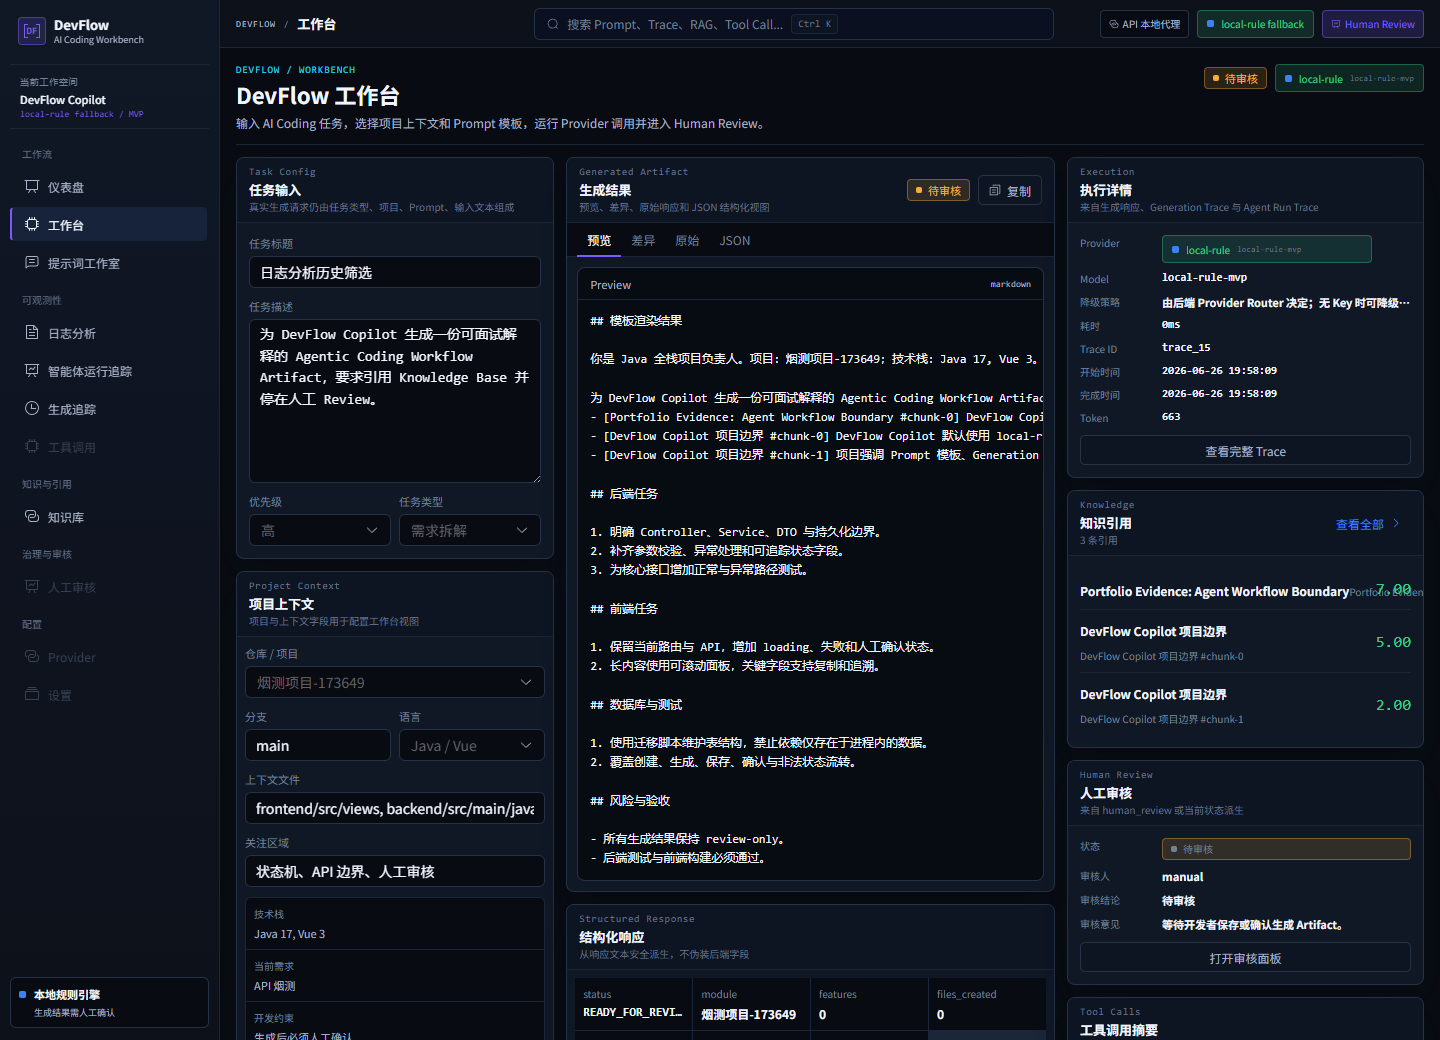
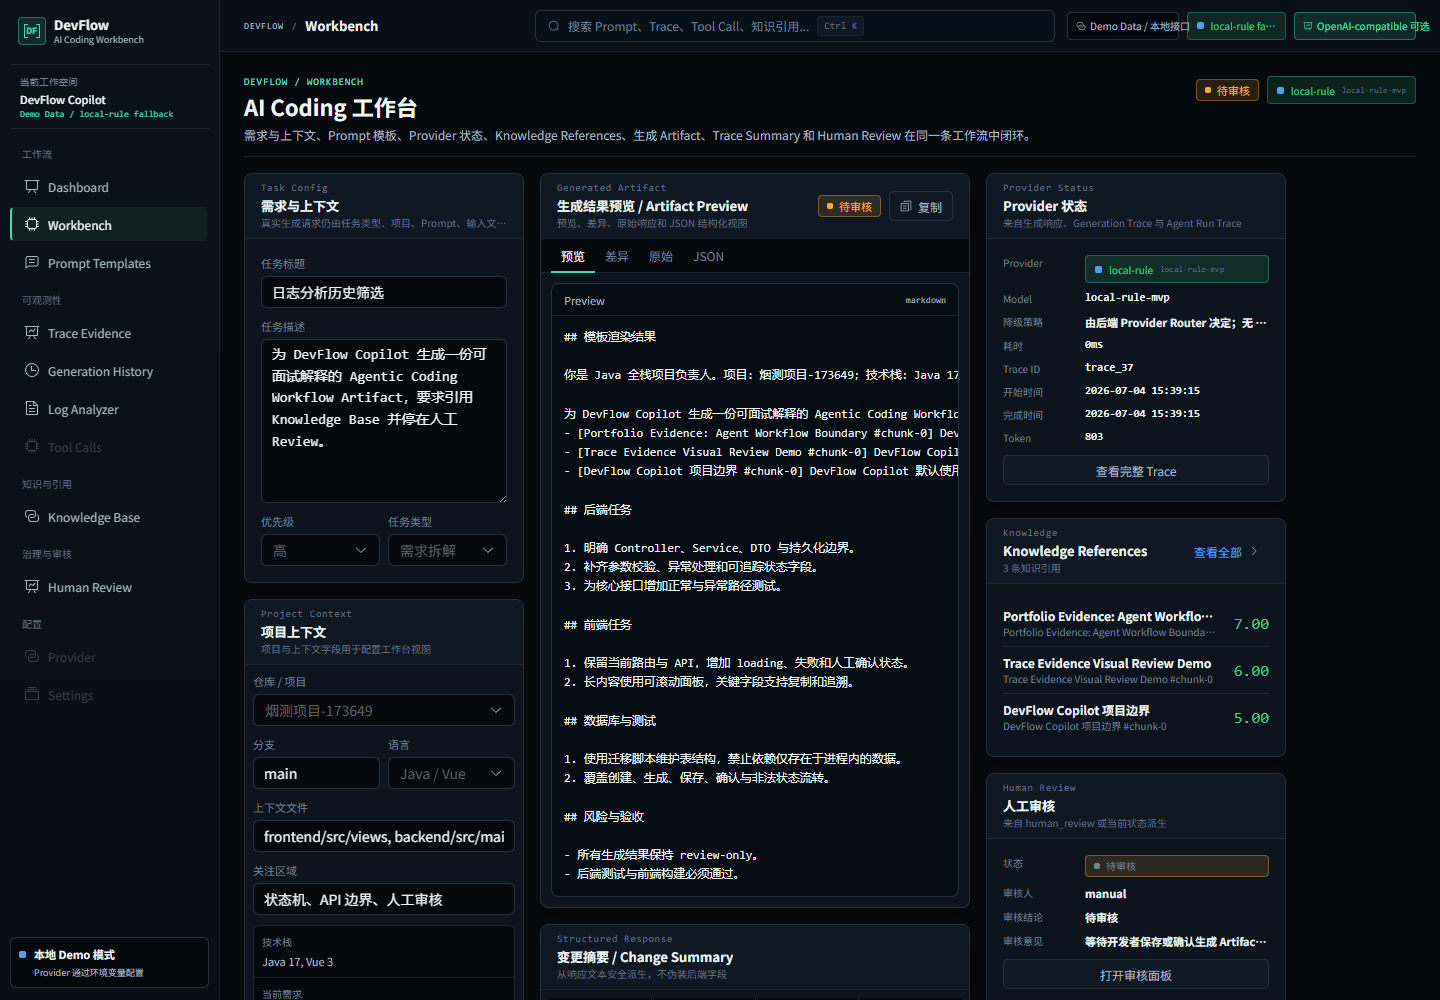
docs: refresh portfolio screenshots

diff --git a/HANDOFF.md b/HANDOFF.md
@@ -2,6 +2,35 @@
 
 使用规则：每轮把新记录追加在“历史记录”顶部，不覆盖旧记录。没有证据时不要写“测试通过”。
 
+## 2026-07-04 - Codex - Trace Evidence 冻结与 Dashboard / Workbench 第一阶段收口
+
+- 本轮目标：把本地真实 `docs/images/trace-evidence.png` 作为第一阶段视觉基准，冻结 Trace Evidence 大结构，并把同一套深色企业级 AI DevTools 视觉语言收口到 Dashboard 与 Workbench；未继续重写 Knowledge Base / Prompt Templates，Human Review 只纳入既有第一阶段成果与截图。
+- 设计决策：沿用 Trace Evidence 的深色背景、220px 左侧导航、顶部 command bar、Runtime Mint 克制高亮、弱边框、低阴影、中文企业级文案、等宽技术字段、状态小圆点和 Demo Data 边界说明。Dashboard 以产品总览和证据链为主，Workbench 以需求、上下文、Artifact、Trace、Tool Call、Human Review 三栏闭环为主，不采用普通 CRUD 后台或聊天页结构。
+- Trace Evidence：新增 `docs/design_reviews/trace_evidence_review.md`，记录“阶段通过”；页面只统一 fallback 文案为 `local-rule fallback；本地演示模式不连接真实 API Key。`，未继续改大结构。
+- Dashboard / Workbench：Dashboard 的待人工复核改为从现有 Agent Run Trace 实际状态派生，不再把总审核数冒充待复核；Metrics Snapshot 对齐当前 8 个页面、8 个真实路由、30 个 endpoint、20 个测试和 13 张截图。Workbench 修复 Knowledge References 长标题与 score 在 1440px 截图中的重叠。
+- 截图脚本：`scripts/capture-portfolio-screenshots.mjs` 继续使用 1440x1000 viewport；新增 canonical 输出 `dashboard.png`、`workbench.png`、`trace-evidence.png`、`human-review.png`，同时刷新现有 README 兼容别名。脚本增加前端 `/api` proxy 数据校验，避免 API 预热成功但页面误连其他 8080 服务时生成空数据截图。
+- 真实截图：后端临时启动在 `127.0.0.1:18081`，前端临时启动在 `127.0.0.1:5175`，并使用 `VITE_API_PROXY_TARGET=http://127.0.0.1:18081`。截图前通过真实 API 创建并确认 local-rule Demo Artifact；四张 canonical 截图已逐张检查，均来自当前项目本地真实路由，不是聊天截图、第三方截图或 AI concept 图。
+- 验证结果：独立执行 `npm run build` 通过；独立执行 `mvn test` 通过，`Tests run: 20, Failures: 0, Errors: 0, Skipped: 0`；执行 `npm run screenshots:portfolio` 通过；执行 `node scripts/collect-portfolio-metrics.js --run-checks` 通过，内部 build / test 均通过；`git diff --check` 通过。
+- 编码与边界：`TODO.md`、`HANDOFF.md`、`docs/metrics/metrics_snapshot.md`、`docs/design_reviews/trace_evidence_review.md` 的前三字节均为 UTF-8 BOM；未发现 `content_reference` 或替换字符；`.local/reference_screenshots/` 保持 ignored，未进入 Git；未提交真实 API Key，未声称真实 LLM、生产流量、向量数据库或完整多 Agent Runtime。
+- 已知风险：Vite build 仍有既有 VueUse PURE 注释提示及 Element Plus / Markdown 大 chunk 警告；metrics 脚本的默认关键接口仍检查 8080，因此快照继续诚实标记该项“未采集”；Request Changes / 驳回仍是 disabled 预留控制，因为后端没有对应 API。
+
+## 2026-07-04 - Codex - 第一阶段前端作品集化 UI 改造
+
+- 做了什么：用户明确确认“这个前端方向，可以开工”后，按 `docs/frontend_reference_research.md`、`docs/frontend_moodboard.md`、`docs/frontend_reference_screenshot_index.md`、`docs/frontend_showcase_design.md` 和 `docs/metrics/metrics_snapshot.md` 执行第一阶段前端展示改造。未接真实 API Key，未复制第三方参考截图 / Logo / 文案，未把 local-rule 包装成真实 LLM。
+- 全局视觉：`frontend/src/styles/theme.css` 切换为深色开发者工具风格、Runtime Mint 信号色、蓝黑 / 石墨黑背景、弱边框、低阴影、6px 圆角；App Shell 保持 220px Sidebar、52px Topbar、24px page padding、16px panel padding / grid gap。
+- 导航：`frontend/src/router/index.ts` 重排为工作流、可观测性、知识与引用、治理与审核、配置；新增独立 `/reviews` Human Review 路由。Provider / Settings 保持 disabled，提示 `配置预留 / 当前通过环境变量配置`。
+- Dashboard：`DashboardView.vue` 增加 Product Evidence Hero、本地 Demo / local-rule fallback / OpenAI-compatible 可选 / 本地 metrics_snapshot 数据来源声明；强化今日运行、成功率、平均耗时、待人工复核、工具调用、知识库命中、最近运行、Provider Health、Metrics Snapshot、执行证据等模块。
+- Workbench：`WorkbenchView.vue` 强化 AI Coding 工作台信息架构：需求与上下文、Prompt 模板、Provider 状态、Knowledge References、Artifact Preview、Change Summary、Trace Summary、Tool Calls Timeline 和 Human Review 停点；`Request Changes` 作为 disabled 决策位，明确当前后端未提供 API。
+- Trace Evidence：`AgentRunTraceView.vue` 重构为 Run list + Timeline / Steps / Spans + Step Inspector + Raw JSON / Rendered Prompt / Fallback Reason / Tool I/O tabs；Timeline 使用中文步骤 `01 Prompt 渲染` 至 `07 已确认 / 已驳回`，缺失字段显式标注未采集。
+- Human Review：新增 `frontend/src/views/HumanReviewView.vue`，独立展示复核队列、风险标签、Artifact 预览、人工复核决策面板、复核原因、状态历史和为什么需要人工复核；通过按钮沿用现有 save/confirm 状态机，要求修改 / 驳回 / 重新生成保持 disabled 并说明后端未提供对应 API。
+- Knowledge / Prompt：`KnowledgeBaseView.vue` 和 `PromptTemplatesView.vue` 仅做轻量视觉与链路文案对齐，分别突出 `Document -> Chunk -> Search -> Citation -> Generation Reference`、`Template -> Variables -> Render Preview -> Test Run -> Trace metadata`。
+- 截图：`scripts/capture-portfolio-screenshots.mjs` viewport 改为 1440x1000，并将 Human Review 截图入口改为 `/reviews`。执行 `cd frontend && npm run screenshots:portfolio` 成功，生成 / 更新 `docs/images/dashboard-agentic.png`、`workbench-running.png`、`agent-run-trace.png`、`knowledge-base-rag.png`、`prompt-studio.png`、`human-review-trace-detail.png`，均来自本地真实运行页面。
+- 指标：执行 `node scripts/collect-portfolio-metrics.js --run-checks` 成功并刷新 `docs/metrics/metrics_snapshot.md`；当前快照显示前端页面文件 8 个、真实 component route 8 个、redirect route 1 个、disabled nav item 3 个，`npm run build` 和 `mvn test` 均通过。
+- 验证证据：`cd frontend && npm run build` 通过；`cd backend && mvn test` 通过，`Tests run: 20, Failures: 0, Errors: 0, Skipped: 0`；`git diff --check` 通过，仅 LF/CRLF 提示；敏感模式扫描未发现真实 Key 形态。
+- 服务处理：为截图临时启动了后端 `18081` 和前端 `5175`，确认截图后已关闭本轮启动的进程；原本已存在的 `5174` 旧服务未改动。
+- 保留边界：`.local/` 与 `.local/reference_screenshots/` 仍为 ignored；未把任何第三方参考截图放入 `docs/images` 或 README；README 本轮未修改。
+- 下一步：建议用户先人工确认 `docs/images/` 最新截图，再决定是否进入第二阶段 README 截图展示、简历文案和页面细节 polish。
+
 ## 2026-07-04 - Codex - 公开前端参考截图采集与索引
 
 - 做了什么：按用户新增要求，只做公开前端参考截图采集和索引，不改 Vue、CSS、README、截图脚本，不进入前端代码改造。先检查 `.gitignore`，确认原本未忽略 `.local/`，随后补充 `.local/` 和 `.local/reference_screenshots/`。

diff --git a/TODO.md b/TODO.md
@@ -29,13 +29,13 @@
 - **DTO 校验 + GlobalExceptionHandler**，统一 `ApiResponse` 响应结构
 - **20 个 JUnit 5 / MockMvc / `@SpringBootTest` 集成测试**（`@Transactional` 隔离，`@ActiveProfiles("test")`），最近一次 `mvn test`：`Tests run: 20, Failures: 0, Errors: 0, Skipped: 0`
 - **ai_task 最小只读查询入口**：`GET /api/tasks?projectId={projectId}`，复用 `AiTaskMapper`，按 ID 倒序返回指定项目任务列表
-- **Vue 3 + TypeScript + Element Plus** 前端，WorkbenchView 三栏布局，状态机按钮联动，`npm run build` 通过
-- **截图**：`docs/images/` 下5张标准截图 + 5张1920px 大图均存在
+- **Vue 3 + TypeScript + Element Plus** 前端，8 个真实页面路由，Dashboard / Workbench / Trace Evidence / Human Review 已升级为中文 AI Coding Workbench / Agentic Workflow Console 展示页，`npm run build` 通过
+- **截图**：`docs/images/` 下 13 张本地真实浏览器截图均存在；canonical 核心截图为 `dashboard.png`、`workbench.png`、`trace-evidence.png`、`human-review.png`，另保留现有 README 兼容命名和 5 张 1920px 历史大图
 - **Docker Compose** 配置存在，`docker compose config` 通过（三服务：mysql / backend / frontend）
 - **后端宿主端口避让**：已从 `8080` 改为 `${BACKEND_HOST_PORT:-18080}:8080`，避免与现有服务冲突
 - **GitHub Actions CI** 配置存在，包含后端 `mvn -B verify` 和前端 `npm ci && npm run build`
 - **环境审计文档**：`docs/ENVIRONMENT_CHECK.md` 已记录本机工具版本和 Docker Compose 验证记录
-- **Git 仓库**：当前分支 `resume-optimization-v1`，协作规则已提交
+- **Git 仓库**：当前作品集升级分支为 `feat/portfolio-showcase-v1`，协作规则已提交
 - **README 简历版项目介绍**：已新增“简历版项目介绍”短小节，面向大三 Java 后端实习 / AI 工具开发 / Java + AI 应用投递场景，并保持项目真实边界
 
 ---
@@ -530,6 +530,35 @@
   - `git status --short` 只显示 `.gitignore` 和 `docs/frontend_reference_screenshot_index.md` 为本轮可提交改动；`.local/` 截图目录未进入 Git。
 - 建议 commit message：`docs: add frontend reference screenshot index`
 
+## P1-17：第一阶段前端作品集化 UI 改造 ✅ 本轮完成
+
+- 状态：**done**
+- 背景：用户已确认前端参考调研、moodboard、公开截图索引、视觉落地规格和指标快照，可以开始第一阶段前端代码改造。
+- 涉及文件：`frontend/src/styles/theme.css`、`frontend/src/router/index.ts`、`frontend/src/components/MetricCard.vue`、`frontend/src/components/SidebarNav.vue`、`frontend/src/components/TopBar.vue`、`frontend/src/views/DashboardView.vue`、`frontend/src/views/WorkbenchView.vue`、`frontend/src/views/AgentRunTraceView.vue`、`frontend/src/views/HumanReviewView.vue`、`frontend/src/views/KnowledgeBaseView.vue`、`frontend/src/views/PromptTemplatesView.vue`、`scripts/capture-portfolio-screenshots.mjs`、`docs/images/*.png`、`docs/metrics/metrics_snapshot.md`、`TODO.md`、`HANDOFF.md`。
+- 完成内容：
+  - 全局视觉系统切换为深色开发者工具风格、Runtime Mint 信号色、蓝黑 / 石墨黑背景、弱边框、低阴影、6px 圆角和高密度企业级控制台节奏。
+  - App Shell 按 220px Sidebar、52px Topbar、24px page padding、16px panel padding / grid gap 落地；导航结构升级为工作流、可观测性、知识与引用、治理与审核、配置。
+  - Provider / Settings 保持 disabled，并显示 `配置预留 / 当前通过环境变量配置`；未接真实 API Key。
+  - Dashboard 增加 Product Evidence Hero、中文 KPI、Metrics Snapshot、Provider Health、最近运行、复核队列、执行证据和可见的数据来源声明。
+  - Workbench 强化需求与上下文、Prompt 模板、Provider 状态、Knowledge References、Artifact Preview、Change Summary、Trace Summary、Tool Calls Timeline 和 Human Review 决策位；`Request Changes` 明确为后端未提供 API 的 disabled 控制。
+  - Trace Evidence 重构为 Run list + Timeline / Steps / Spans + Step Inspector + Raw JSON / Rendered Prompt / Fallback Reason / Tool I/O tabs。
+  - Trace Evidence 已完成人工评审并进入阶段冻结；评审记录见 `docs/design_reviews/trace_evidence_review.md`，后续只允许小范围收尾。
+  - 新增独立 Human Review 页面，展示复核队列、风险标签、Artifact 预览、决策面板、复核原因、状态历史和为什么需要人工复核说明。
+  - Knowledge Base / Prompt Templates 轻量对齐页面级链路：`Document -> Chunk -> Search -> Citation -> Generation Reference`、`Template -> Variables -> Render Preview -> Test Run -> Trace metadata`。
+  - 截图脚本改为 1440x1000 viewport，并把 Human Review 截图入口指向独立 `/reviews` 页面；同时产出 `dashboard.png`、`workbench.png`、`trace-evidence.png`、`human-review.png` canonical 截图和现有 README 兼容别名。
+- 数据来源与边界：
+  - 页面可见位置标注 `Demo Data / 来源：本地指标快照 / local demo`。
+  - 指标来自现有接口、Trace / Knowledge 派生、本地 seed/demo 数据或 `docs/metrics/metrics_snapshot.md`；缺失字段显示未采集、未记录或 0。
+  - 未复制第三方 Logo、文案、截图、完整布局或产品承诺；`.local/reference_screenshots/` 仍为 ignored，未加入 Git。
+  - 未把 `local-rule` 包装成真实 LLM，未把 demo seed / UI-only 字段写成生产数据，未声称 Eval、RBAC、多 Agent Runtime 或向量数据库已实现。
+- 验证结果：
+  - `cd frontend && npm run build`：通过；仍有既有 VueUse PURE 注释提示和 Element Plus / Markdown 大 chunk 警告。
+  - `cd backend && mvn test`：通过，`Tests run: 20, Failures: 0, Errors: 0, Skipped: 0`。
+  - `node scripts/collect-portfolio-metrics.js --run-checks`：通过，已刷新 `docs/metrics/metrics_snapshot.md`，当前前端页面文件 8 个、真实 component route 8 个、disabled nav item 3 个。
+  - `cd frontend && npm run screenshots:portfolio`：通过，基于本地真实运行页面生成 6 张作品集截图。
+  - `git diff --check`：通过，仅有 LF/CRLF 提示。
+- 建议 commit message：`feat: upgrade devflow portfolio showcase UI`
+
 ## 下一轮建议
 
-建议下一步先基于 `docs/frontend_reference_research.md`、`docs/frontend_moodboard.md`、`docs/frontend_showcase_design.md` 和 `docs/frontend_reference_screenshot_index.md` 让用户确认前端视觉落地规格；确认前不要进入 UI 代码改造。继续保持不提交 API Key、不提交 `.env`、不提交 `node_modules` / `dist` / `target` / 日志文件。
+建议下一步先由用户人工查看 `docs/images/dashboard-agentic.png`、`docs/images/workbench-running.png`、`docs/images/agent-run-trace.png`、`docs/images/human-review-trace-detail.png` 等本地真实截图，再决定是否进入第二阶段 README 展示文案、截图编排或更细的页面 polish。继续保持不提交 API Key、不提交 `.env`、不提交 `.local/`、不提交 `node_modules` / `dist` / `target` / 日志文件。

diff --git a/docs/metrics/metrics_snapshot.md b/docs/metrics/metrics_snapshot.md
@@ -1,13 +1,13 @@
 # DevFlow Copilot 作品集指标快照
 
-采集时间：2026-07-04T04:05:29.149Z
+采集时间：2026-07-04T07:39:58.133Z
 采集命令：`node scripts/collect-portfolio-metrics.js --run-checks`
 当前分支：`feat/portfolio-showcase-v1`
 
 ## 功能规模
 
-- 前端页面文件：7 个
-- 前端真实 component route：7 个；redirect route：1 个；disabled nav item：4 个
+- 前端页面文件：8 个
+- 前端真实 component route：8 个；redirect route：1 个；disabled nav item：3 个
 - 后端 Controller：10 个
 - 后端 endpoint mapping：30 个
 - Flyway migration：4 个
@@ -15,7 +15,7 @@
 - Prompt 模板 seed：6 条
 - Generation Record seed：6 条
 - Knowledge Document seed：2 条；Knowledge Chunk seed：4 条
-- docs/images 截图文件：11 张
+- docs/images 截图文件：13 张
 - README 顶部 / 正文图片引用：6 张
 
 ## 工程质量
@@ -24,15 +24,15 @@
 - 后端测试源码中的 `@Test`：20 个
 - GitHub Actions workflow：1 个
 - 前端 build 脚本：`vue-tsc --noEmit && vite build`
-- `npm run build`：通过，耗时 39921ms
-- `mvn test`：通过，耗时 43765ms
+- `npm run build`：通过，耗时 12175ms
+- `mvn test`：通过，耗时 16076ms
 
 ## 性能体验
 
 - Node.js 版本：v24.16.0
 - 前端 bundle 统计：已采集
-- JS assets：18 个，2.2 MB
-- CSS assets：14 个，461 KB
+- JS assets：19 个，2.2 MB
+- CSS assets：15 个，470 KB
 - 关键接口响应：当前未采集 / 默认接口不可用（HTTP 404）
 - 关键接口 URL：`http://127.0.0.1:8080/api/dashboard/stats`
 - 关键接口单次耗时：当前未采集
@@ -50,10 +50,10 @@
 
 ## 可写入简历的数据
 
-- 7 个 Vue 页面文件、7 个真实前端页面路由。
+- 8 个 Vue 页面文件、8 个真实前端页面路由。
 - 30 个后端 endpoint mapping，覆盖 AI 生成、Trace、Knowledge Base、Prompt、History、Review 等模块。
 - 20 个后端自动化测试源码；若本快照显示 `mvn test` 通过，可写最近一次本地测试通过。
-- 11 张本地截图文件，其中 README 引用 6 张真实页面截图。
+- 13 张本地截图文件，其中 README 引用 6 张真实页面截图。
 
 ## 暂时不能写的数据
 
